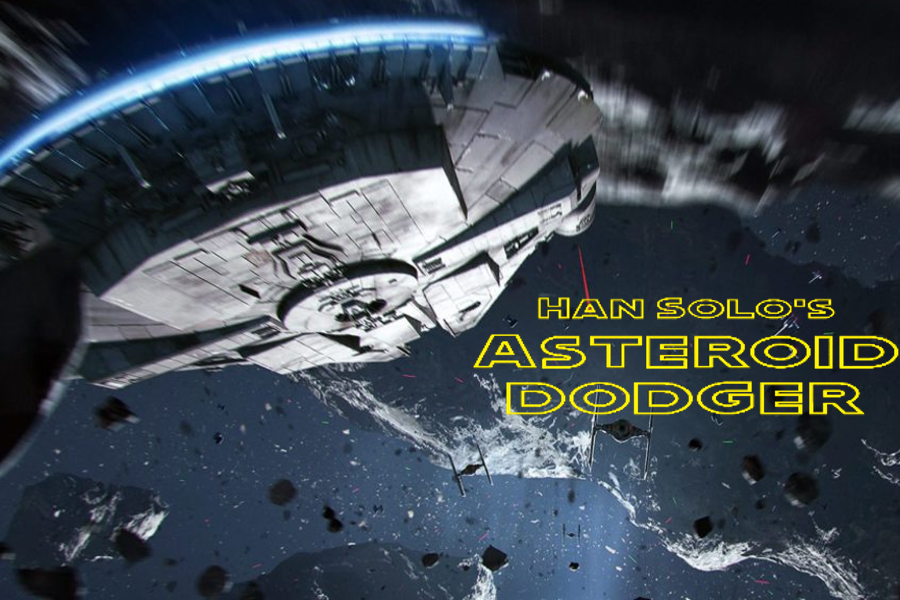
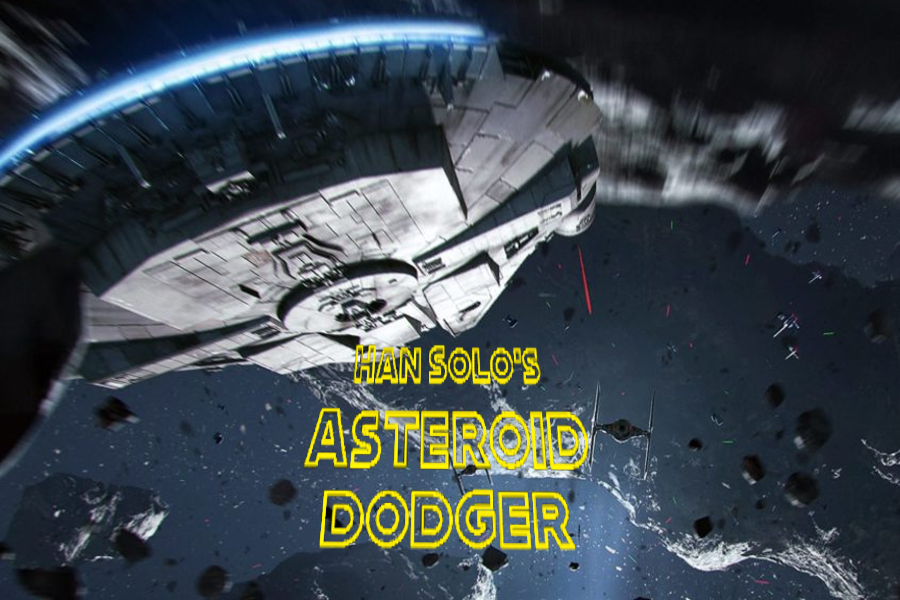
scenes

Changed region(s): [[0.3422, 0.48, 1.0, 0.93]]

diff --git a/js/menuScene.js b/js/menuScene.js
@@ -46,7 +46,7 @@ class MenuScene extends Phaser.Scene {
    * @param {object} data - Any data passed via ScenePlugin.add() or ScenePlugin.start().
    */
   create(data) {
-    this.menuSceneBackgroundImage = this.add.sprite(0, 0, "menuSceneBackground")
+    this.menuSceneBackgroundImage = this.add.sprite(0, 0, "menuSceneBackground").setScale(2)
     this.menuSceneBackgroundImage.x = 1920 / 2
     this.menuSceneBackgroundImage.y = 1080 / 2
 

diff --git a/js/titleScene.js b/js/titleScene.js
@@ -46,7 +46,7 @@ class TitleScene extends Phaser.Scene {
   create(data) {
     this.titleSceneBackgroundImage = this.add
       .sprite(0, 0, "titleSceneBackground")
-      .setScale(2.75)
+      .setScale(1.85)
     this.titleSceneBackgroundImage.x = 1920 / 2
     this.titleSceneBackgroundImage.y = 1080 / 2
   }
